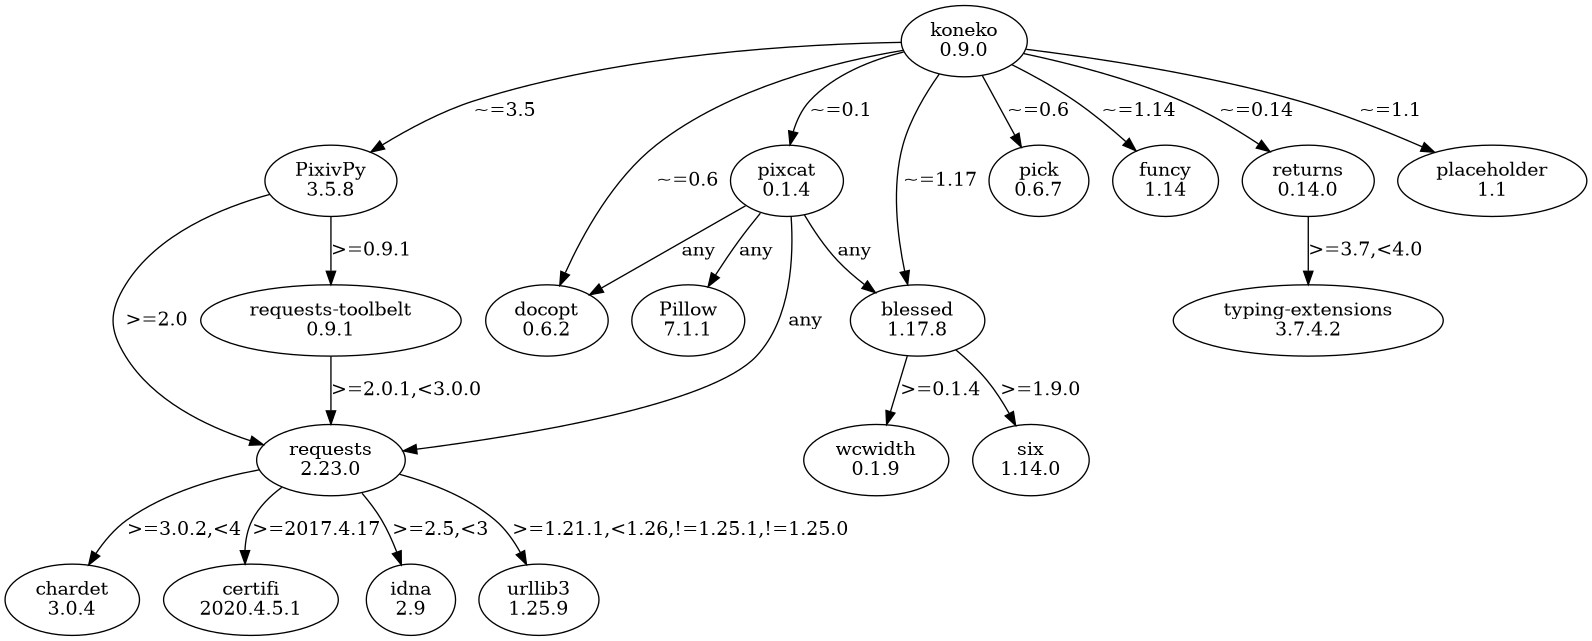
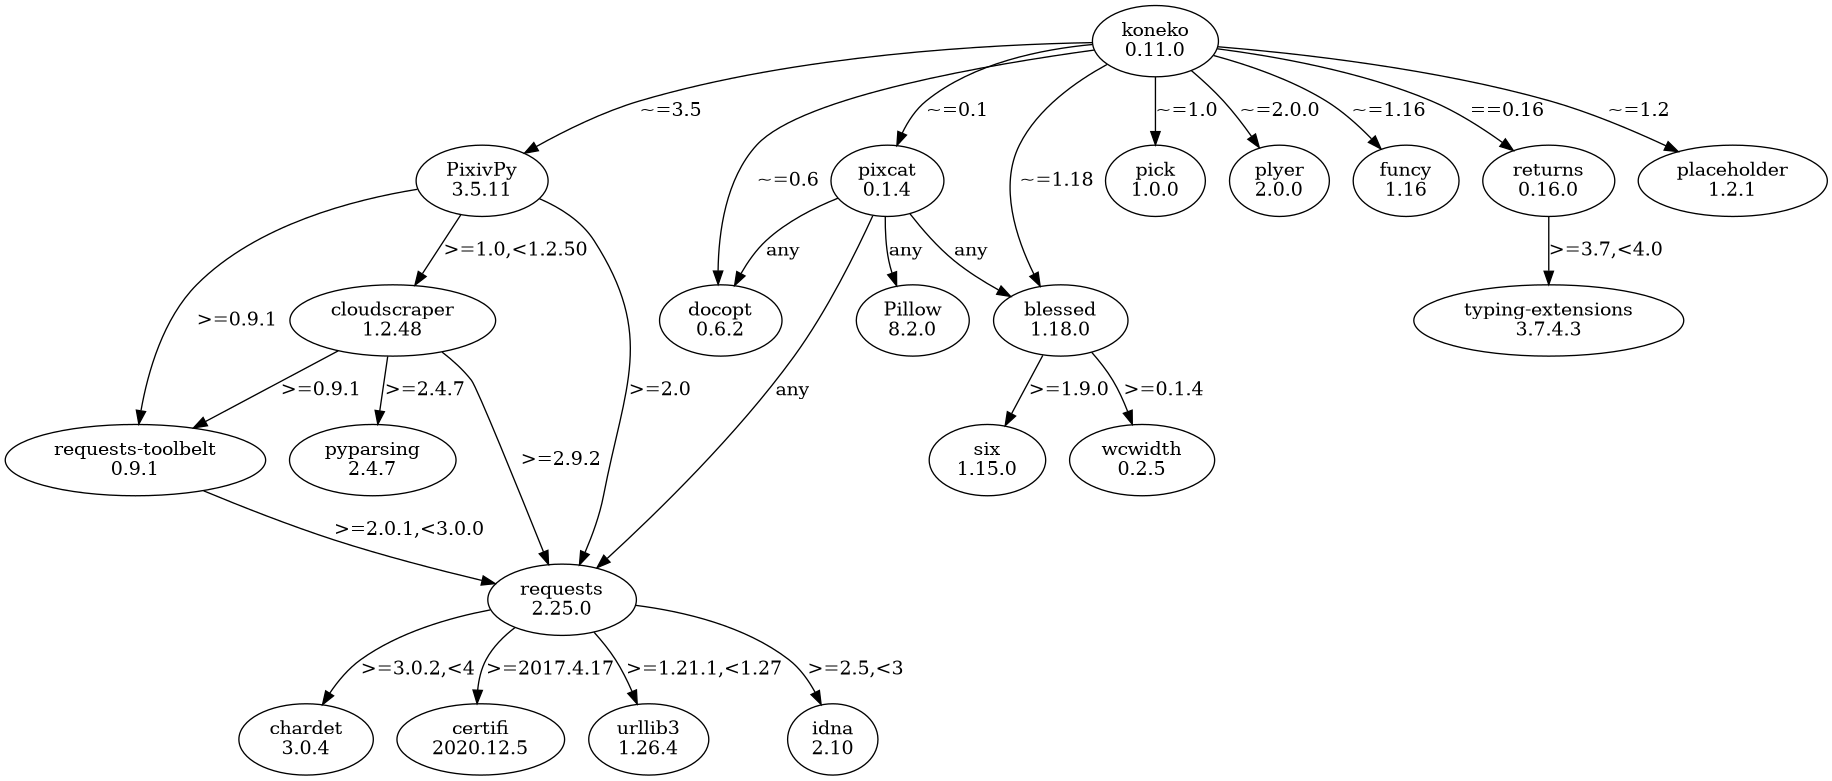
Update and sync HACKINGs
- Removed internal imports; too much effort to maintain twice
- Updated dependencies graph

diff --git a/HACKING.md b/HACKING.md
@@ -230,38 +230,3 @@ $ pipdeptree -v
 2.0.0b1
 $ pipdeptree --graph-output png -p koneko > dependencies.png
 ```
-
-## Internal imports
-
-See [import-analyzer](https://github.com/twenty5151/import-analyzer/)
-
-* A larger score means it is a dependency of other modules more
-    * "A dependency of a lot of modules"
-* A smaller score means it depends on other modules more
-    * "Depends on a lot of modules"
-* A high proportion means most connections to other modules are its dependents
-* A low proportion means most connections to other modules are its dependencies
-
-|                 |   Dependents |   Dependencies |   Score |   Proportion |
-|:----------------|-------------:|---------------:|--------:|-------------:|
-| pure.py         |            9 |              0 |       9 |          100 |
-| colors.py       |            2 |              0 |       2 |          100 |
-| \_\_init\_\_.py |           15 |              0 |      15 |          100 |
-| utils.py        |           12 |              2 |      10 |           86 |
-| files.py        |            5 |              1 |       4 |           83 |
-| config.py       |            8 |              2 |       6 |           80 |
-| printer.py      |            6 |              2 |       4 |           75 |
-| lscat.py        |            7 |              6 |       1 |           54 |
-| api.py          |            3 |              3 |       0 |           50 |
-| picker.py       |            3 |              4 |      -1 |           43 |
-| cli.py          |            2 |              3 |      -1 |           40 |
-| prompt.py       |            3 |              5 |      -2 |           38 |
-| data.py         |            1 |              2 |      -1 |           33 |
-| download.py     |            2 |              4 |      -2 |           33 |
-| screens.py      |            2 |              6 |      -4 |           25 |
-| main.py         |            2 |              7 |      -5 |           22 |
-| lscat_prompt.py |            1 |              5 |      -4 |           17 |
-| ui.py           |            2 |             12 |     -10 |           14 |
-| assistants.py   |            1 |              7 |      -6 |           12 |
-| lscat_app.py    |            1 |              8 |      -7 |           11 |
-| \_\_main\_\_.py |            0 |              5 |      -5 |            0 |

diff --git a/docs/pages/HACKING.rst b/docs/pages/HACKING.rst
@@ -279,133 +279,3 @@ There are two dependencies that aren't necessary: returns and placeholder (both 
    $ pipdeptree -v
    2.0.0b1
    $ pipdeptree --graph-output png -p koneko > dependencies.png
-
-Internal imports
-----------------
-
-See `import-analyzer <https://github.com/twenty5151/import-analyzer/>`_
-
-
-* A larger score means it is a dependency of other modules more
-
-  * "A dependency of a lot of modules"
-* A smaller score means it depends on other modules more
-
-  * "Depends on a lot of modules"
-* A high proportion means most connections to other modules are its dependents
-* A low proportion means most connections to other modules are its dependencies
-
-.. list-table::
-   :header-rows: 1
-
-   * -
-     - Dependents
-     - Dependencies
-     - Score
-     - Proportion
-   * - pure.py
-     - 9
-     - 0
-     - 9
-     - 100
-   * - colors.py
-     - 2
-     - 0
-     - 2
-     - 100
-   * - __init__.py
-     - 15
-     - 0
-     - 15
-     - 100
-   * - utils.py
-     - 12
-     - 2
-     - 10
-     - 86
-   * - files.py
-     - 5
-     - 1
-     - 4
-     - 83
-   * - config.py
-     - 8
-     - 2
-     - 6
-     - 80
-   * - printer.py
-     - 6
-     - 2
-     - 4
-     - 75
-   * - lscat.py
-     - 7
-     - 6
-     - 1
-     - 54
-   * - api.py
-     - 3
-     - 3
-     - 0
-     - 50
-   * - picker.py
-     - 3
-     - 4
-     - -1
-     - 43
-   * - cli.py
-     - 2
-     - 3
-     - -1
-     - 40
-   * - prompt.py
-     - 3
-     - 5
-     - -2
-     - 38
-   * - data.py
-     - 1
-     - 2
-     - -1
-     - 33
-   * - download.py
-     - 2
-     - 4
-     - -2
-     - 33
-   * - screens.py
-     - 2
-     - 6
-     - -4
-     - 25
-   * - main.py
-     - 2
-     - 7
-     - -5
-     - 22
-   * - lscat_prompt.py
-     - 1
-     - 5
-     - -4
-     - 17
-   * - ui.py
-     - 2
-     - 12
-     - -10
-     - 14
-   * - assistants.py
-     - 1
-     - 7
-     - -6
-     - 12
-   * - lscat_app.py
-     - 1
-     - 8
-     - -7
-     - 11
-   * - __main__.py
-     - 0
-     - 5
-     - -5
-     - 0
-
